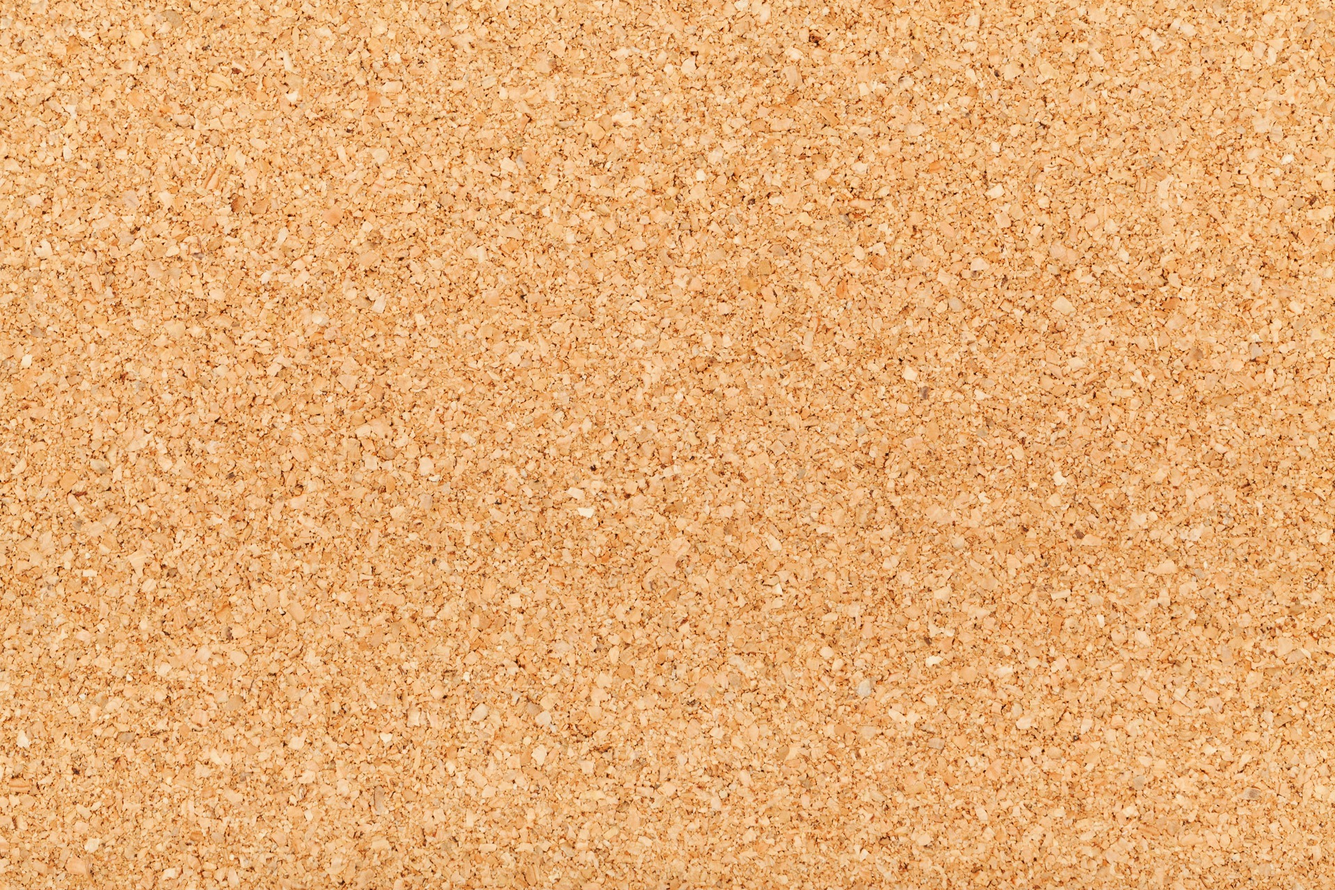
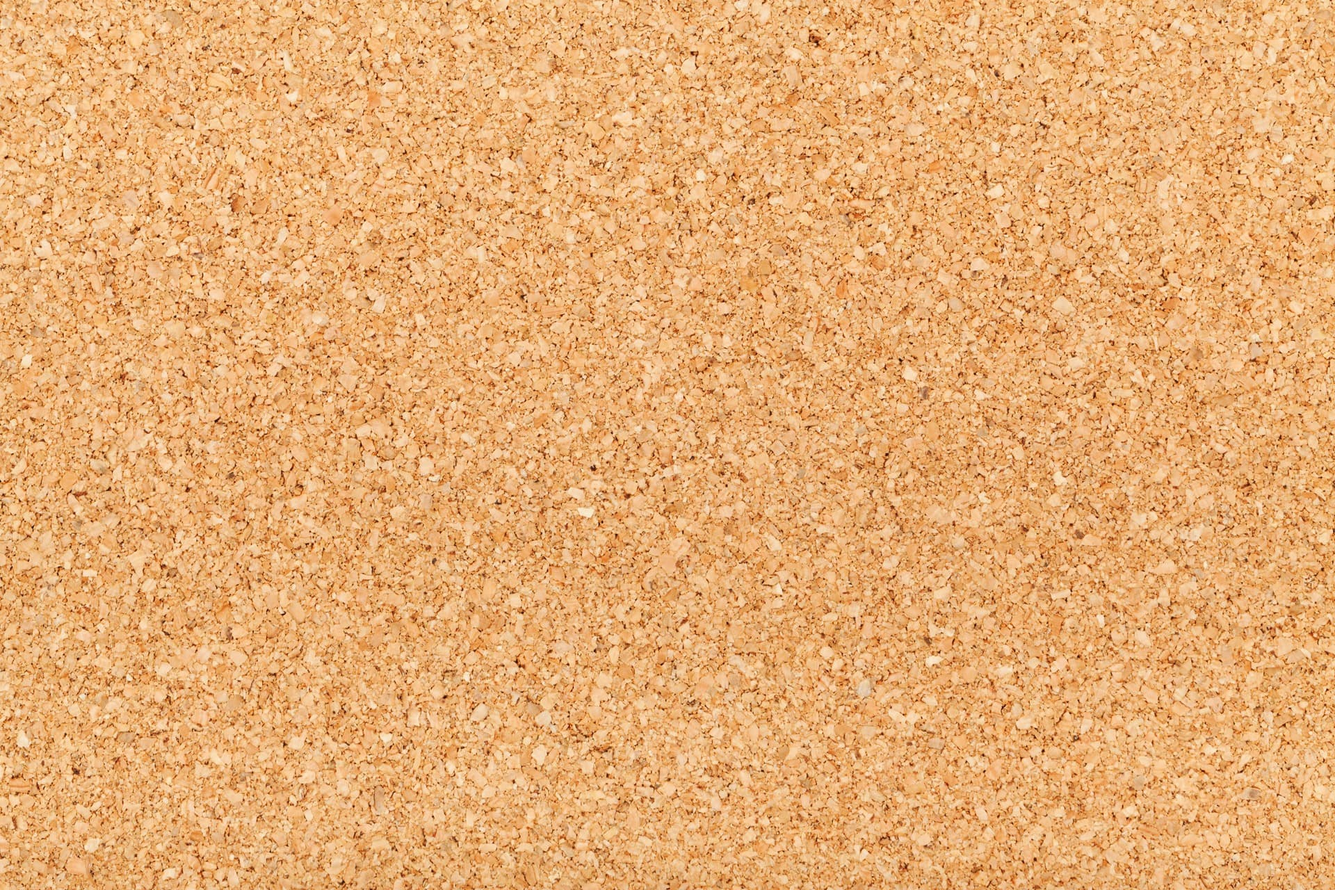
Added new loading panels for news articles & resized corkboard images

diff --git a/src/components/pages/News.jsx b/src/components/pages/News.jsx
@@ -3,6 +3,7 @@ import { useState, useEffect, Suspense, lazy } from "react";
 
 // LIBRARIES
 import axios from "axios";
+import { Link } from "react-router";
 
 // ASSETS
 import defaultImage from "../../assets/imgs/misc/missing-img.png";
@@ -13,55 +14,15 @@ import advertisment from "../../assets/imgs/ads/5541626.jpg"
 import { Row, Col, Carousel, Image, Container, Stack, Button } from "react-bootstrap";
 import HeaderPanel from "../ui/HeaderPanel";
 import QuickArticlesPanel from "../ui/QuickArticlesPanel";
+import LoadingSpinner from "../ui/LoadingSpinner";
+
+// LAZY COMPONENTS
 const NewsArticle = lazy(() => import('../NewsArticle'));
+
 
 // TEST ARTICLES
 import testArticles from "../../../server/scripts/quickArticles.json";
 
-// TEST IMAGES
-import art0 from "../../assets/imgs/article-imgs/Article-6.png";
-import art1 from "../../assets/imgs/article-imgs/Article-7.jpg";
-import art2 from "../../assets/imgs/article-imgs/cherry_audio_filtomika-uuzeCu5kdMie8Q2mvxdJyEhnqkQsd5uI.jpg";
-import art3 from "../../assets/imgs/article-imgs/sonicware_cydrums-zarNCId1V3mndGsHKl2qxggf2yTkPlHz.jpg";
-import art4 from "../../assets/imgs/article-imgs/ReasonStudiosReason13_01-PCQEOqvQcRmoHW4.vaAbh2bBWaPic.G..jpg";
-import art5 from "../../assets/imgs/article-imgs/gforce_icondrum-VbBqP7q2fhho0u4Owuy8ogyQcWb0dJbu.jpg";
-import art6 from "../../assets/imgs/article-imgs/dw_soundworks_pure_cherry-h9x72Z7Ge1ztQJch1lAtKS_NHwcFNxnT.jpg";
-import art7 from "../../assets/imgs/article-imgs/acustica_thing_th2-XoCqxvfulcyTbOSNFTxmm5ho4Uh4WaV..jpg";
-import art8 from "../../assets/imgs/article-imgs/ferrofish-pulse-8-ae-lifestyle_shot01-K4f..DPWtq2sGQZvoCd72StfAdOb3AX9.jpeg";
-import art9 from "../../assets/imgs/article-imgs/shure_mv7i-QBocPxIf61AupuKTF1yVbCJsl691_CtL.jpg";
-import art10 from "../../assets/imgs/article-imgs/vsl_duality_strings_fx-.cy.Viyobd9Q8RpRi.rBwglDVpgQs2qq.jpg";
-import art11 from "../../assets/imgs/article-imgs/heritage_audio_britstrip-S0QZft37xbhlqBFNJGgNn0DlQ9LmeCYi.jpg";
-import art12 from "../../assets/imgs/article-imgs/ehx_pico_360_looper-rFLWiQqGq7BTFISnWlnRqJm4_br75Srs.jpg";
-import art13 from "../../assets/imgs/article-imgs/noise_makers_studio_verb-_f0mRUoqFz2ji2ierL8k7t6j_XFJl8BM.jpg";
-import art14 from "../../assets/imgs/article-imgs/arturia_minifreak_update-SUJg_hvE3.61xEorshylhFt7pBmbuN0w.jpg";
-import art15 from "../../assets/imgs/article-imgs/tracktion_biotek_3-rck6L30aXYxytjFU216BJV8Bx8VkSlq7.jpg";
-import art16 from "../../assets/imgs/article-imgs/softube_console_1_mkiii_update-lAbiWXNWCaZT.1BkrSgJ8dOOTsjQYBih.jpg";
-import art17 from "../../assets/imgs/article-imgs/hamstead_soundworks_redwing-1Z6d9c0kRf1n7lq.jlRWhmZyH579VAG6.jpg";
-import LoadingSpinner from "../ui/LoadingSpinner";
-import { Link } from "react-router";
-
-
-// TEST IMAGES
-const exampleImages = [
-  art0,
-  art1,
-  art2,
-  art3,
-  art4,
-  art5,
-  art6,
-  art7,
-  art8,
-  art9,
-  art10,
-  art11,
-  art12,
-  art13,
-  art14,
-  art15,
-  art16,
-  art17,
-]
 
 
 /*----------------------------------------------------------------------------
@@ -136,31 +97,41 @@ function News(props) {
           <Container fluid className="p-0 m-0 mt-3">
             <Row lg={2} xs={1} sm={1} className="justify-content-start p-0 m-0">
               <Col lg={8} sm={12} xs={12} md={8} xl={8} className="">
-                <Carousel className="m-0 p-0">
-                  {
-                    carouselArticles.slice(0, 5).map((article, index) => {
-                      return (
-                        <Carousel.Item style={{ textAlign: "center" }} key={`top-carousel-article-${index}`}>
-                          <Image
-                            src={article.image_urls ? article.image_urls[0] : defaultImage}
-                            width={"100%"}
-                            height={"550px"}
-                            className="mx-auto"
-                            style={{ objectFit: "cover" }}
-                            onError={event => {
-                              event.target.onerror = null
-                              event.target.src = defaultImage
-                            }}
-                          />
-                          <Carousel.Caption style={{ backgroundColor: "rgba(0,0,0,0.75)" }}>
-                            <h3>{article.title}</h3>
-                            <p>{article.subTitle}</p>
-                          </Carousel.Caption>
-                        </Carousel.Item>
-                      )
-                    })
-                  }
-                </Carousel >
+                {
+                  carouselArticles.length !== 0 ? <Carousel className="m-0 p-0">
+                    {
+                      carouselArticles.slice(0, 5).map((article, index) => {
+                        return (
+                          <Carousel.Item style={{ textAlign: "center" }} key={`top-carousel-article-${index}`}>
+                            <Image
+                              src={article.image_urls ? article.image_urls[0] : defaultImage}
+                              width={"100%"}
+                              height={"550px"}
+                              className="mx-auto"
+                              style={{ objectFit: "cover" }}
+                              onError={event => {
+                                event.target.onerror = null
+                                event.target.src = defaultImage
+                              }}
+                            />
+                            <Carousel.Caption style={{ backgroundColor: "rgba(0,0,0,0.75)" }}>
+                              <h3>{article.title}</h3>
+                              <p>{article.subTitle}</p>
+                            </Carousel.Caption>
+                          </Carousel.Item>
+                        )
+                      })
+                    }
+                  </Carousel > :
+                    <>
+                      <br />
+                      <HeaderPanel width="w-75">
+                        <LoadingSpinner title={"Loading Articles"} />
+                        <br />
+                        <br />
+                      </HeaderPanel>
+                    </>
+                }
               </Col>
 
               <Col lg={4}>
@@ -181,13 +152,20 @@ function News(props) {
             {
               articles.map(function (a, i) {
                 return (
-                  < NewsArticle key={`${articles.title} - ${i}`} article={articles[i]} rowInverse={i % 2 === 1 ? "flex-row-reverse" : "flex-row"} artImage={exampleImages[i]} />
+                  < NewsArticle key={`${articles.title} - ${i}`} article={articles[i]} rowInverse={i % 2 === 1 ? "flex-row-reverse" : "flex-row"} artImage={a.image_urls[0]} />
                 )
               })
             }
           </Suspense>
           <div>
-            {loading && <p>Loading...</p>}
+            {loading &&
+              <>
+                <br />
+                <HeaderPanel width="w-75">
+                  <LoadingSpinner title={"Loading Articles"} />
+                </HeaderPanel>
+              </>
+            }
             {nextCursor && !loading && (
               <div className="mx-auto text-center mt-4">
                 <Button variant="secondary" onClick={loadMore}>Load More Articles</Button>
